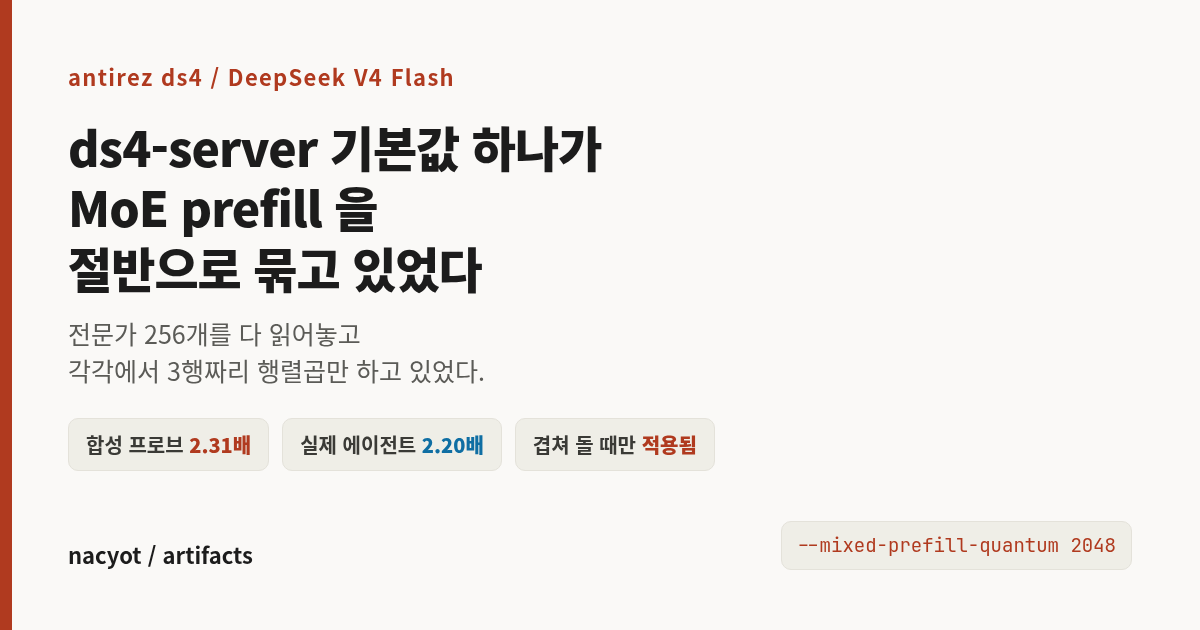
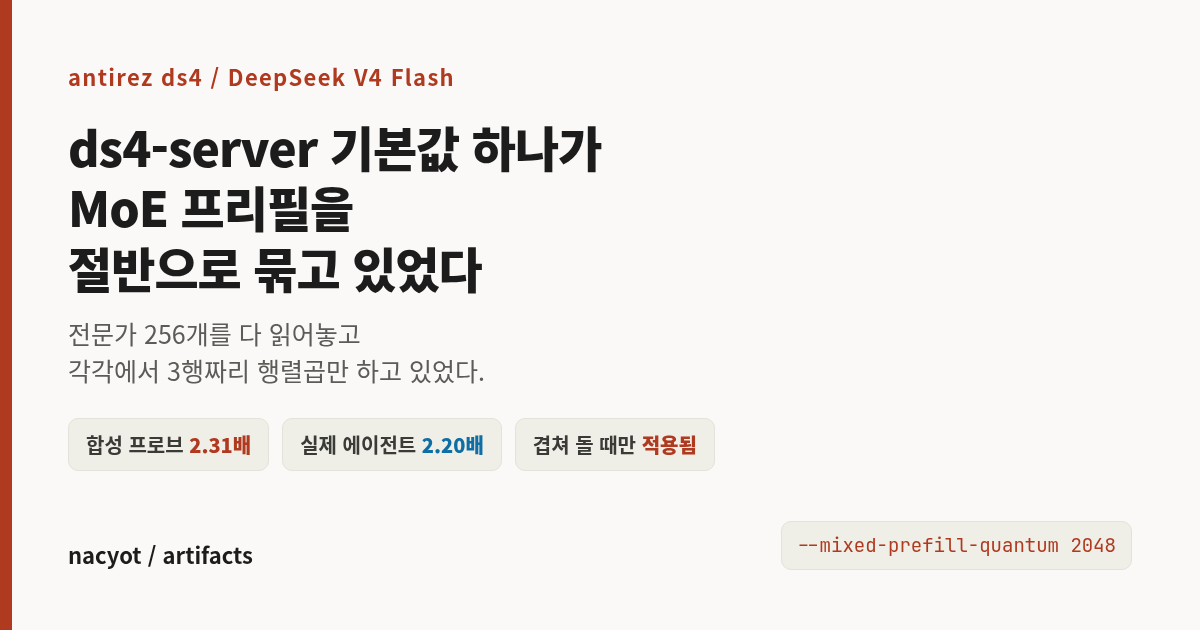
moe-prefill-quantum: 한국어 용어 통일과 어색한 표현 정리
용어를 하나로 맞췄다.
  생성 -> 디코딩,  겹침 -> 동시 실행,  prefill -> 프리필
  기동 인자 -> 실행 옵션,  기동 로그 -> 서버 시작 로그
  재계산 -> 프리필,  이 인자 -> 이 설정

절 제목도 고쳤다.
  '나에게 해당되는가' -> '언제 켜지는 설정인가'
  '실제로 서버가 낸 파형' -> '서버 통계로 본 네 번의 실행'

그림 6 에서 '사람이 멈췄다고 느끼는 영역' 라벨이 y축 눈금과 데이터점에
겹치던 것을 오른쪽으로 옮겼다.

Changed region(s): [[0.1542, 0.2714, 0.3083, 0.3921]]

diff --git a/index.html b/index.html
@@ -76,7 +76,7 @@
 
 <a class="item" href="./moe-prefill-quantum/">
   <img class="thumb" src="./moe-prefill-quantum/og.png" alt="" loading="lazy" width="1200" height="630">
-  <div class="body">  <h2>ds4-server 기본값 하나가 MoE prefill 을 절반으로 묶고 있었다</h2>
+  <div class="body">  <h2>ds4-server 기본값 하나가 MoE 프리필을 절반으로 묶고 있었다</h2>
   <p>로컬 서빙 중 프롬프트 재계산이 이상하게 느렸다. 원인은 <code>--mixed-prefill-quantum</code> 의 기본값 128. 전문가 256개 중 95%를 읽어놓고 각각에서 3행짜리 행렬곱만 하니 산술강도가 바닥이었다. 2048 로 올리면 합성 프로브에서 2.31배, 실제 코딩 에이전트 셋을 동시에 돌린 작업에서 2.20배가 된다. 적용 조건(요청이 겹칠 때만 켜진다), 원인 분해, 값 고르는 법, 4096 그래프 경계 파편의 실제 비용(5%)까지. 실제 작업 중 서버가 낸 파형도 붙였다.</p>
   <div class="meta">
     <span class="tag">실측</span>

diff --git a/moe-prefill-quantum/og.html b/moe-prefill-quantum/og.html
@@ -19,7 +19,7 @@
 <div class="bar"></div>
 <div class="wrap">
   <div class="kicker">antirez ds4 / DeepSeek V4 Flash</div>
-  <h1>ds4-server 기본값 하나가<br>MoE prefill 을<br>절반으로 묶고 있었다</h1>
+  <h1>ds4-server 기본값 하나가<br>MoE 프리필을<br>절반으로 묶고 있었다</h1>
   <div class="sub">전문가 256개를 다 읽어놓고<br>각각에서 3행짜리 행렬곱만 하고 있었다.</div>
   <div class="stats">
     <div class="chip">합성 프로브 <b>2.31배</b></div>
